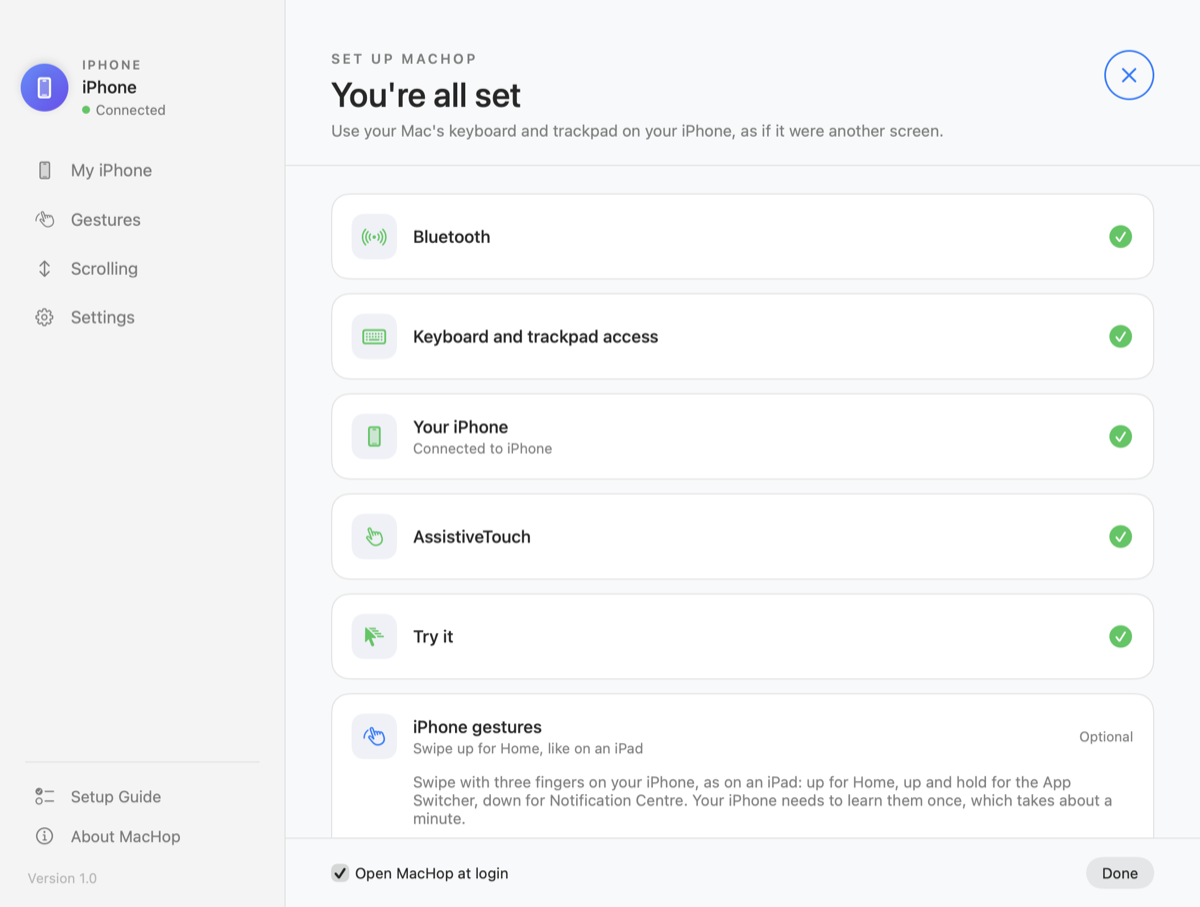
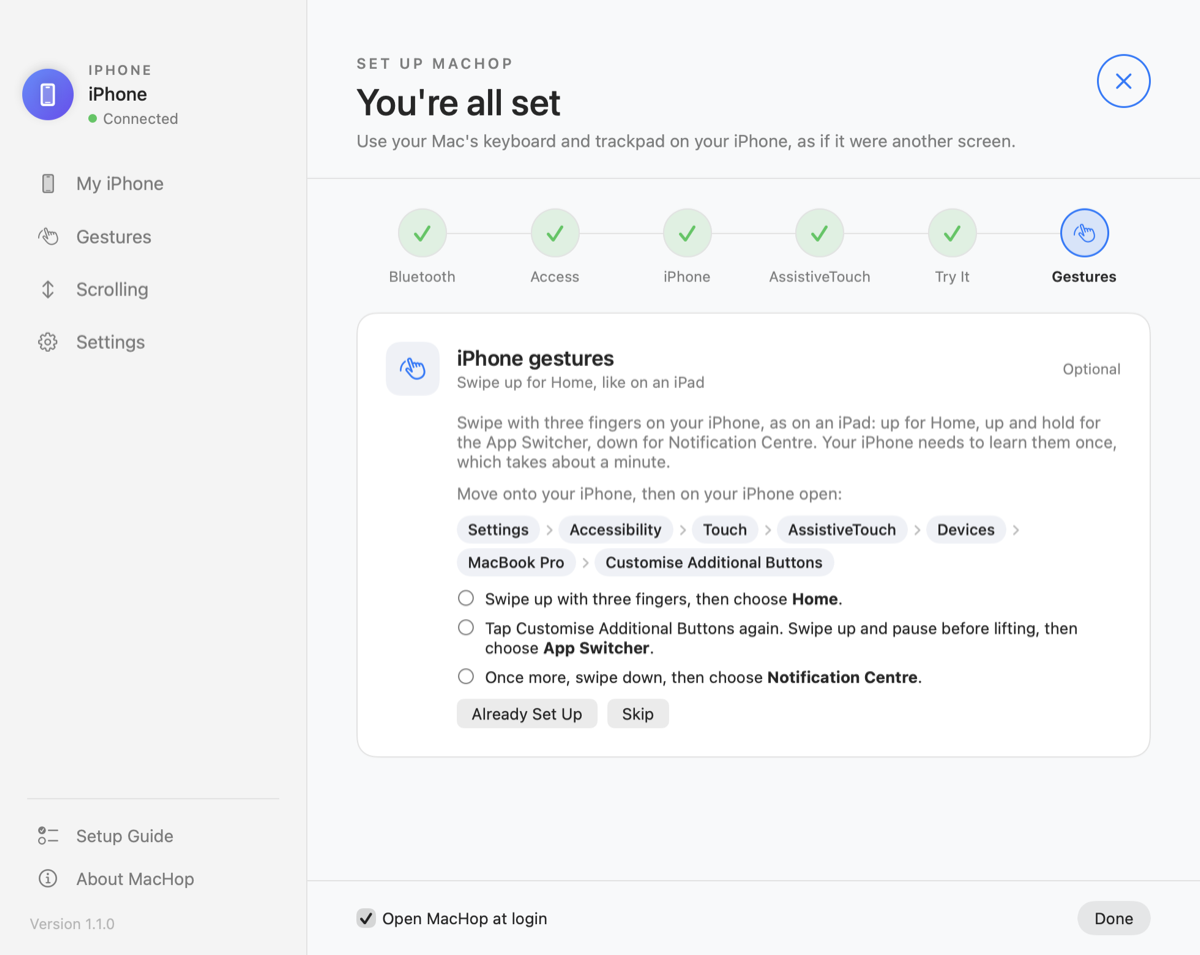
MacHop 1.1.0
The iPhone can sit above the screen, landscape works the right way round,
Flip turns the iPhone around, and the iPhone page and setup guide fit
without scrolling. README and screenshots updated to match.

diff --git a/README.md b/README.md
@@ -11,7 +11,7 @@
 </p>
 
 <p align="center">
-  <img src="docs/images/my-iphone.png" width="760" alt="MacHop's window: drag your iPhone to where it sits beside your Mac">
+  <img src="docs/images/my-iphone.png" width="760" alt="MacHop's window: drag your iPhone to where it sits beside or above your screen">
 </p>
 
 ## What it does
@@ -20,7 +20,7 @@
 - **Click, type and drag** on the iPhone with your Mac's trackpad, mouse and keyboard.
 - **iPad-style gestures:** swipe up with three fingers for Home, swipe up and hold for the App Switcher, swipe down for Notification Centre.
 - **Feels native:** fast flicks carry across the edge, and Mac gestures such as Mission Control stay quiet while you're on the iPhone.
-- **Set up visually:** drag your iPhone to where it sits, beside or above any display. MacHop recognises your iPhone model and sizes it to match.
+- **Set up visually:** drag your iPhone to where it sits, beside or above any display, in portrait or landscape. MacHop recognises your iPhone model and sizes it to match.
 - **Recovers by itself:** if the iPhone goes out of range or Bluetooth drops, control returns to your Mac instantly and MacHop reconnects when it can.
 
 Apple's Universal Control doesn't support iPhone ([why not](#why-not-just-use-universal-control)). MacHop presents your Mac to the iPhone as a Bluetooth keyboard and pointer, which the iPhone uses through its built-in AssistiveTouch.
@@ -74,6 +74,7 @@ MacHop lives in your menu bar. Its menu has a switch to turn it off and on, your
   <img src="docs/images/menu.png" width="320" alt="The menu-bar menu">
 </p>
 
+- **Match the drawing to your iPhone:** drag it to the side or top of your screen where it really sits, and choose Portrait or Landscape. If the Dynamic Island is on the other side from the drawing's, click **Flip**, or the pointer will move the wrong way on the iPhone.
 - **Two-finger scrolling** works like holding the button and dragging, with the iPhone's own momentum. iPhone can't scroll with the pointer standing still, so you can turn this off on the Scrolling page if you'd rather drag by hand.
 - **Volume and media keys** stay with your Mac unless you choose to send them to the iPhone (Settings).
 - **Pointer speed** and **edge resistance** are on the My iPhone page; the defaults suit most people.
@@ -83,7 +84,7 @@ MacHop lives in your menu bar. Its menu has a switch to turn it off and on, your
 - The pointer on the iPhone is AssistiveTouch's grey circle. iOS draws it and fades it about 15 seconds after you stop moving it; it can't be hidden sooner.
 - Gestures need the one-time AssistiveTouch setup, and pinch to zoom isn't possible: iPhone ignores touch input from Bluetooth devices.
 - The iPhone sits to the left or right of a display, or above it. Below is planned.
-- While a password field on your Mac uses Secure Input, MacHop won't hand input to the iPhone.
+- While a password field on your Mac uses Secure Input, or Mission Control is open, MacHop won't hand input to the iPhone.
 - Hiding the Mac's pointer uses a private macOS feature that keyboard-and-mouse sharing tools rely on. A future macOS could change it, and it rules out the Mac App Store.
 
 ## FAQ
